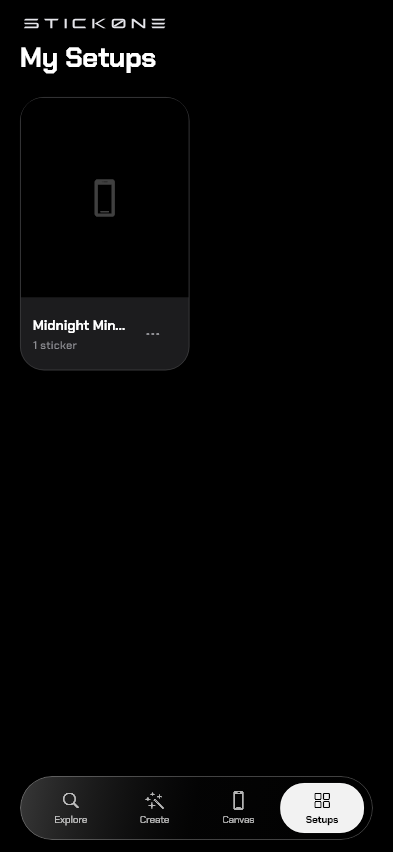
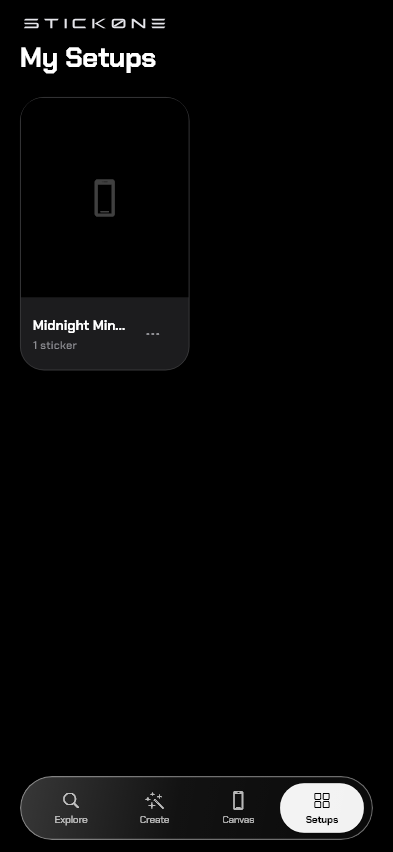
feat: ultra-clear liquid glassmorphism with dynamic optical gesture transparency

Changed region(s): [[0.7328, 0.9155, 0.8855, 1.0], [0.916, 0.9155, 0.9466, 0.9765]]

diff --git a/lib/screens/sticker_placement_screen.dart b/lib/screens/sticker_placement_screen.dart
@@ -380,6 +380,8 @@ class _StickerPlacementScreenState extends State<StickerPlacementScreen> {
 
   Future<void> _deleteSinglePlacement(String id) async {
     HapticFeedback.mediumImpact();
+    final canvas = context.read<CanvasProvider>();
+    canvas.setIsGesturing(false);
     setState(() {
       _gesturePlacementId = null;
       _photoPointerId = null;
@@ -389,7 +391,6 @@ class _StickerPlacementScreenState extends State<StickerPlacementScreen> {
       _activeScale = null;
       _activeRotation = null;
     });
-    final canvas = context.read<CanvasProvider>();
     canvas.removePlacement(id);
 
     // If overlay is live on phone screen, immediately update the screen display
@@ -507,6 +508,7 @@ class _StickerPlacementScreenState extends State<StickerPlacementScreen> {
       if (_gesturePlacementId == null || _gesturePlacementId != hitStickerId) {
         // First finger touched down on this sticker
         _gesturePlacementId = hitStickerId;
+        canvas.setIsGesturing(true);
         canvas.bringPlacementToFront(hitStickerId);
         canvas.selectPlacement(hitStickerId);
         HapticFeedback.selectionClick();
@@ -671,6 +673,7 @@ class _StickerPlacementScreenState extends State<StickerPlacementScreen> {
       canvas.updatePlacementRotation(id, _activeRotation!);
     }
 
+    canvas.setIsGesturing(false);
     setState(() {
       _gesturePlacementId = null;
       _photoPointerId = null;
@@ -718,7 +721,7 @@ class _StickerPlacementScreenState extends State<StickerPlacementScreen> {
               right: 0,
               child: AnimatedOpacity(
                 duration: const Duration(milliseconds: 180),
-                opacity: _gesturePlacementId != null ? 0.20 : 1.0,
+                opacity: _gesturePlacementId != null ? 0.18 : 1.0,
                 child: _buildTransparencyBottomPanel(canvas, activePlacement),
               ),
             ),
@@ -949,13 +952,17 @@ class _StickerPlacementScreenState extends State<StickerPlacementScreen> {
     StickerPlacement activePlacement,
   ) {
     final isOverlayActive = canvas.isOverlayActive;
+    final isGesturing = _gesturePlacementId != null;
 
     return Padding(
       padding: const EdgeInsets.symmetric(horizontal: 16),
       child: ClipRRect(
         borderRadius: BorderRadius.circular(28),
         child: BackdropFilter(
-          filter: ui.ImageFilter.blur(sigmaX: 30, sigmaY: 30),
+          filter: ui.ImageFilter.blur(
+            sigmaX: isGesturing ? 4 : 16,
+            sigmaY: isGesturing ? 4 : 16,
+          ),
           child: Container(
             decoration: BoxDecoration(
               borderRadius: BorderRadius.circular(28),
@@ -963,29 +970,47 @@ class _StickerPlacementScreenState extends State<StickerPlacementScreen> {
                 begin: Alignment.topLeft,
                 end: Alignment.bottomRight,
                 colors: [
-                  Color(0x38FFFFFF), // Liquid glass top refraction highlight
-                  Color(0x142C2C2E), // Fluid translucent center (crystal clear view of stickers)
-                  Color(0x24000000), // Liquid bottom refraction depth
+                  Color(0x3DFFFFFF), // Crystalline specular highlight
+                  Color(0x14FFFFFF), // Fluid transparent optical glass body
+                  Color(0x08FFFFFF), // Clean transparent bottom
                 ],
-                stops: [0.0, 0.5, 1.0],
+                stops: [0.0, 0.45, 1.0],
               ),
               border: Border.all(
-                color: const Color(0x40FFFFFF), // 25% white glossy refraction rim
-                width: 1.0,
+                color: const Color(0x66FFFFFF), // 40% white crystalline specular rim
+                width: 1.2,
               ),
               boxShadow: const [
                 BoxShadow(
-                  color: Color(0x4D000000),
-                  blurRadius: 28,
+                  color: Color(0x33000000),
+                  blurRadius: 24,
                   spreadRadius: -4,
-                  offset: Offset(0, 10),
+                  offset: Offset(0, 8),
                 ),
               ],
             ),
-            padding: const EdgeInsets.symmetric(horizontal: 16, vertical: 12),
+            padding: const EdgeInsets.fromLTRB(16, 8, 16, 12),
             child: Column(
               mainAxisSize: MainAxisSize.min,
               children: [
+                // Top Glass Specular Reflection Highlight Line
+                Container(
+                  height: 1,
+                  margin: const EdgeInsets.only(bottom: 8),
+                  decoration: const BoxDecoration(
+                    gradient: LinearGradient(
+                      colors: [
+                        Colors.transparent,
+                        Color(0x4DFFFFFF),
+                        Color(0x99FFFFFF),
+                        Color(0x4DFFFFFF),
+                        Colors.transparent,
+                      ],
+                      stops: [0.0, 0.25, 0.5, 0.75, 1.0],
+                    ),
+                  ),
+                ),
+
                 // 1. Transparency Slider Row
                 Row(
                   children: [
@@ -1030,7 +1055,7 @@ class _StickerPlacementScreenState extends State<StickerPlacementScreen> {
                   ],
                 ),
 
-                const SizedBox(height: 8),
+                const SizedBox(height: 6),
 
                 // 2. Action Controls Row: Delete / Add / Remove Screen / Update Screen / Stick to Screen
                 SingleChildScrollView(

diff --git a/lib/screens/main_navigation_screen.dart b/lib/screens/main_navigation_screen.dart
@@ -2,6 +2,8 @@ import 'dart:ui';
 import 'package:flutter/cupertino.dart';
 import 'package:flutter/material.dart';
 import 'package:flutter/services.dart';
+import 'package:provider/provider.dart';
+import '../providers/canvas_provider.dart';
 import 'my_designs_screen.dart';
 import 'sticker_creator_screen.dart';
 import 'sticker_placement_screen.dart';
@@ -54,53 +56,63 @@ class _MainNavigationScreenState extends State<MainNavigationScreen> {
         index: _currentIndex,
         children: screens,
       ),
-      bottomNavigationBar: _buildFloatingIosTabBar(),
+      bottomNavigationBar: _buildFloatingIosTabBar(context),
     );
   }
 
-  Widget _buildFloatingIosTabBar() {
+  Widget _buildFloatingIosTabBar(BuildContext context) {
+    final canvas = context.watch<CanvasProvider>();
+    final isGesturing = _currentIndex == 2 && canvas.isGesturing;
+
     return SafeArea(
       child: Padding(
         padding: const EdgeInsets.fromLTRB(20, 0, 20, 12),
-        child: ClipRRect(
-          borderRadius: BorderRadius.circular(32),
-          child: BackdropFilter(
-            filter: ImageFilter.blur(sigmaX: 30, sigmaY: 30),
-            child: Container(
-              height: 64,
-              padding: const EdgeInsets.symmetric(horizontal: 8, vertical: 6),
-              decoration: BoxDecoration(
-                borderRadius: BorderRadius.circular(32),
-                gradient: const LinearGradient(
-                  begin: Alignment.topLeft,
-                  end: Alignment.bottomRight,
-                  colors: [
-                    Color(0x38FFFFFF), // Liquid glass top refraction highlight
-                    Color(0x142C2C2E), // Fluid translucent center (crystal clear view of stickers)
-                    Color(0x24000000), // Liquid bottom refraction depth
-                  ],
-                  stops: [0.0, 0.5, 1.0],
-                ),
-                border: Border.all(
-                  color: const Color(0x40FFFFFF), // 25% white glossy refraction rim
-                  width: 1.0,
-                ),
-                boxShadow: const [
-                  BoxShadow(
-                    color: Color(0x4D000000),
-                    blurRadius: 28,
-                    spreadRadius: -4,
-                    offset: Offset(0, 10),
-                  ),
-                ],
+        child: AnimatedOpacity(
+          duration: const Duration(milliseconds: 180),
+          opacity: isGesturing ? 0.18 : 1.0,
+          child: ClipRRect(
+            borderRadius: BorderRadius.circular(32),
+            child: BackdropFilter(
+              filter: ImageFilter.blur(
+                sigmaX: isGesturing ? 4 : 16,
+                sigmaY: isGesturing ? 4 : 16,
               ),
-              child: Row(
-                children: [
-                  _buildTabItem(0, CupertinoIcons.search, 'Explore'),
-                  _buildTabItem(1, CupertinoIcons.wand_stars, 'Create'),
-                  _buildTabItem(2, CupertinoIcons.device_phone_portrait, 'Canvas'),
-                  _buildTabItem(3, CupertinoIcons.square_grid_2x2, 'Setups'),
-                ],
+              child: Container(
+                height: 64,
+                padding: const EdgeInsets.symmetric(horizontal: 8, vertical: 6),
+                decoration: BoxDecoration(
+                  borderRadius: BorderRadius.circular(32),
+                  gradient: const LinearGradient(
+                    begin: Alignment.topLeft,
+                    end: Alignment.bottomRight,
+                    colors: [
+                      Color(0x38FFFFFF), // Liquid glass top refraction highlight
+                      Color(0x12FFFFFF), // Crystalline translucent glass body
+                      Color(0x0AFFFFFF), // Transparent depth
+                    ],
+                    stops: [0.0, 0.45, 1.0],
+                  ),
+                  border: Border.all(
+                    color: const Color(0x66FFFFFF), // 40% white crystalline specular rim
+                    width: 1.2,
+                  ),
+                  boxShadow: const [
+                    BoxShadow(
+                      color: Color(0x33000000),
+                      blurRadius: 24,
+                      spreadRadius: -4,
+                      offset: Offset(0, 8),
+                    ),
+                  ],
+                ),
+                child: Row(
+                  children: [
+                    _buildTabItem(0, CupertinoIcons.search, 'Explore'),
+                    _buildTabItem(1, CupertinoIcons.wand_stars, 'Create'),
+                    _buildTabItem(2, CupertinoIcons.device_phone_portrait, 'Canvas'),
+                    _buildTabItem(3, CupertinoIcons.square_grid_2x2, 'Setups'),
+                  ],
+                ),
               ),
             ),
           ),

diff --git a/lib/providers/canvas_provider.dart b/lib/providers/canvas_provider.dart
@@ -60,6 +60,15 @@ class CanvasProvider extends ChangeNotifier {
   List<SavedDesign> get savedDesigns => _savedDesigns;
   bool get isLoadingDesigns => _isLoadingDesigns;
   bool get isOverlayActive => _isOverlayActive;
+  bool _isGesturing = false;
+  bool get isGesturing => _isGesturing;
+
+  void setIsGesturing(bool gesturing) {
+    if (_isGesturing != gesturing) {
+      _isGesturing = gesturing;
+      notifyListeners();
+    }
+  }
 
   @visibleForTesting
   void setOverlayActiveForTest(bool active) {
